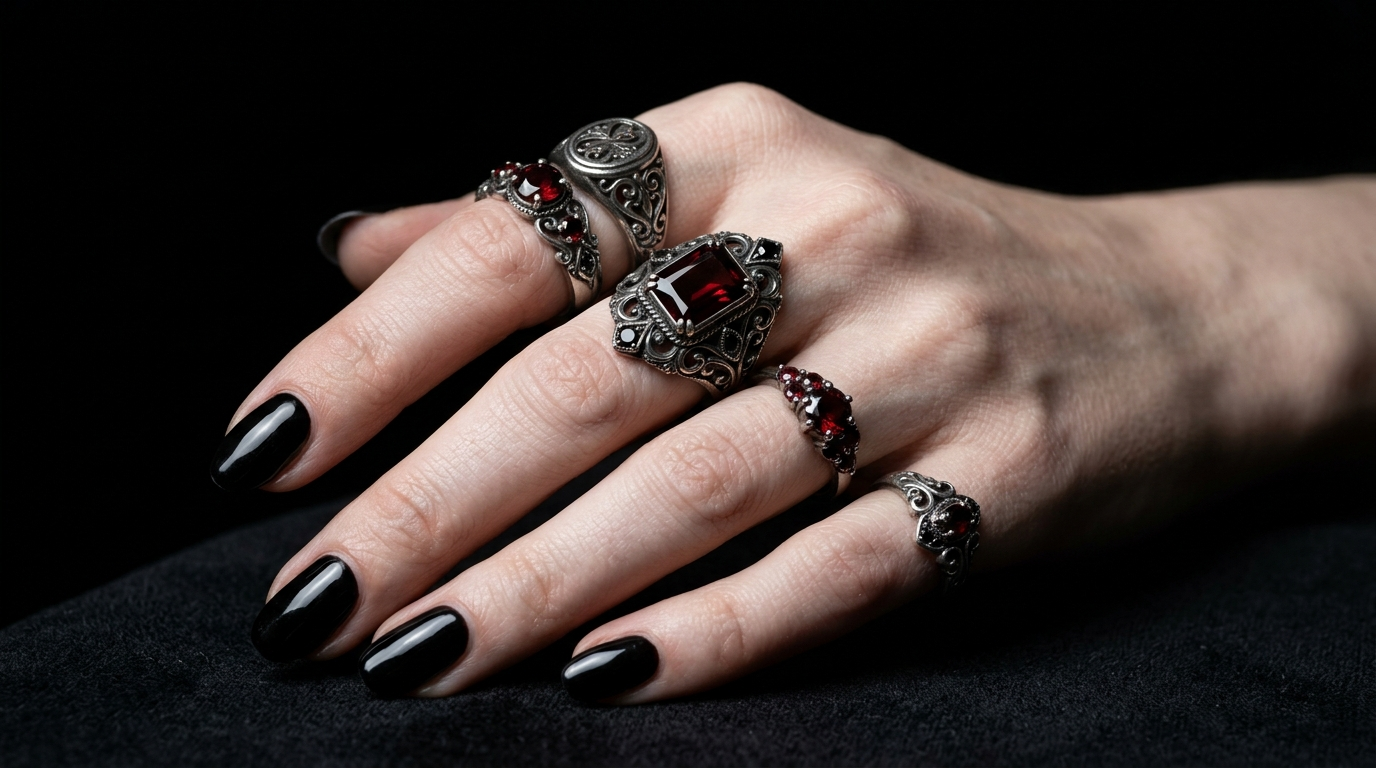
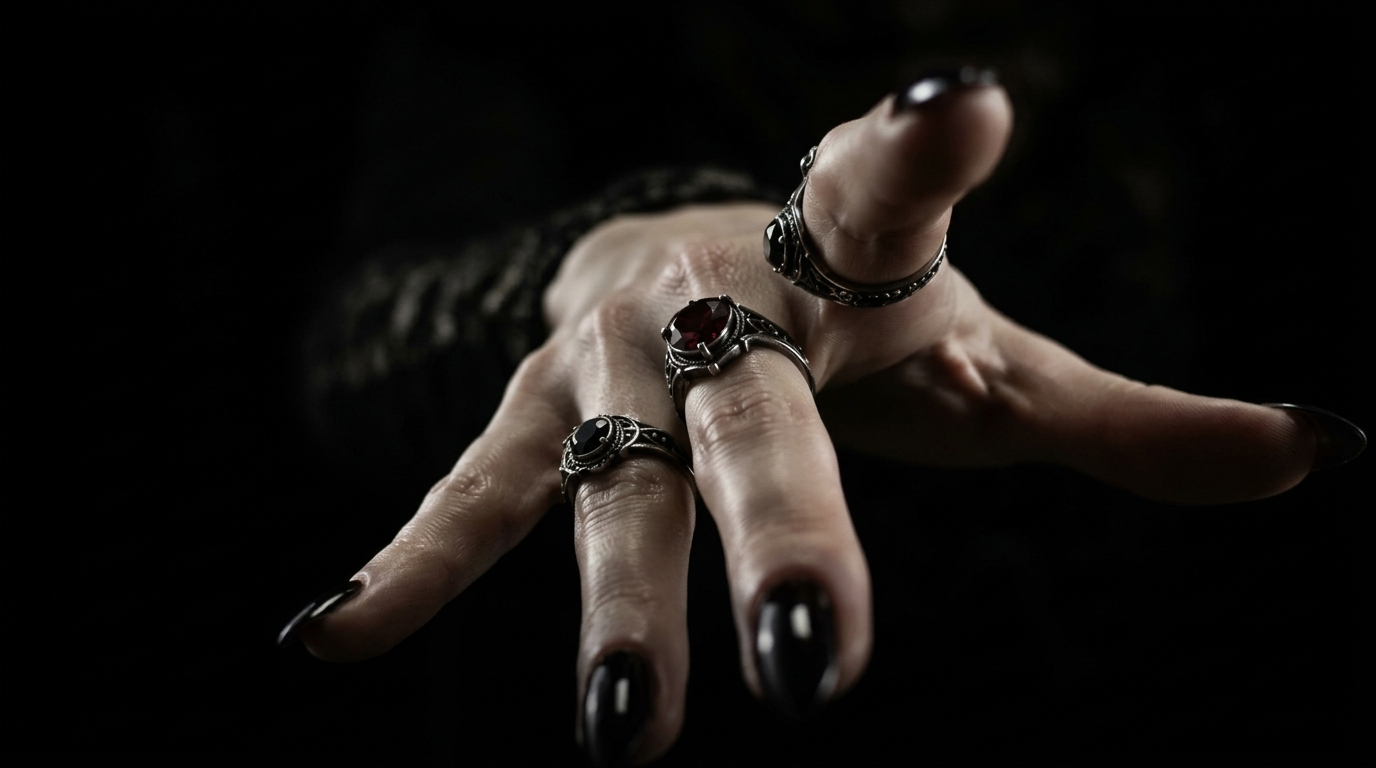
feat: use clean ultra-res hand photography matching reference website from obsidia.webm without video loop

diff --git a/src/components/home/Hero.tsx b/src/components/home/Hero.tsx
@@ -8,7 +8,6 @@ gsap.registerPlugin(ScrollTrigger);
 export const Hero: React.FC = () => {
   const containerRef = useRef<HTMLDivElement>(null);
   const handWrapperRef = useRef<HTMLDivElement>(null);
-  const videoRef = useRef<HTMLVideoElement>(null);
   const eyebrowRef = useRef<HTMLDivElement>(null);
   const headingLine1Ref = useRef<HTMLDivElement>(null);
   const headingLine2Ref = useRef<HTMLDivElement>(null);
@@ -65,13 +64,6 @@ export const Hero: React.FC = () => {
     }
   };
 
-  useEffect(() => {
-    // Hand Video Animation: plays continuously, showcasing full hand gestures, rings, and lighting
-    const video = videoRef.current;
-    if (video) {
-      video.play().catch(() => {});
-    }
-  }, []);
 
   useEffect(() => {
     const prefersReducedMotion = window.matchMedia('(prefers-reduced-motion: reduce)').matches;
@@ -188,23 +180,13 @@ export const Hero: React.FC = () => {
           ref={handWrapperRef}
           className="w-[110%] h-[110%] -left-[5%] -top-[5%] relative transition-transform will-change-transform"
         >
-          {/* Active Hand Motion Video matching 00:00 to 00:03 of reference */}
-          <video
-            ref={videoRef}
-            src="./assets/video/obsidia.webm"
-            autoPlay
-            loop
-            muted
-            playsInline
-            className="w-full h-full object-cover object-[center_35%] md:object-center brightness-[0.88] contrast-[1.08]"
-          />
-
-          {/* Static Fallback Poster behind video */}
+          {/* Cinematic Editorial Hand Photograph matching obsidia.webm reference */}
           <img
             src="./assets/images/hero-hand.jpg"
-            alt="Hand with black nails wearing oxidized gothic silver and garnet rings"
-            className="w-full h-full object-cover object-[center_35%] md:object-center brightness-[0.88] contrast-[1.08] absolute inset-0 -z-10"
+            alt="Hand with black manicured nails wearing handcrafted oxidized gothic silver and garnet rings"
+            className="w-full h-full object-cover object-[center_35%] md:object-center brightness-[0.95] contrast-[1.10] select-none"
             loading="eager"
+            draggable={false}
           />
         </div>
 
